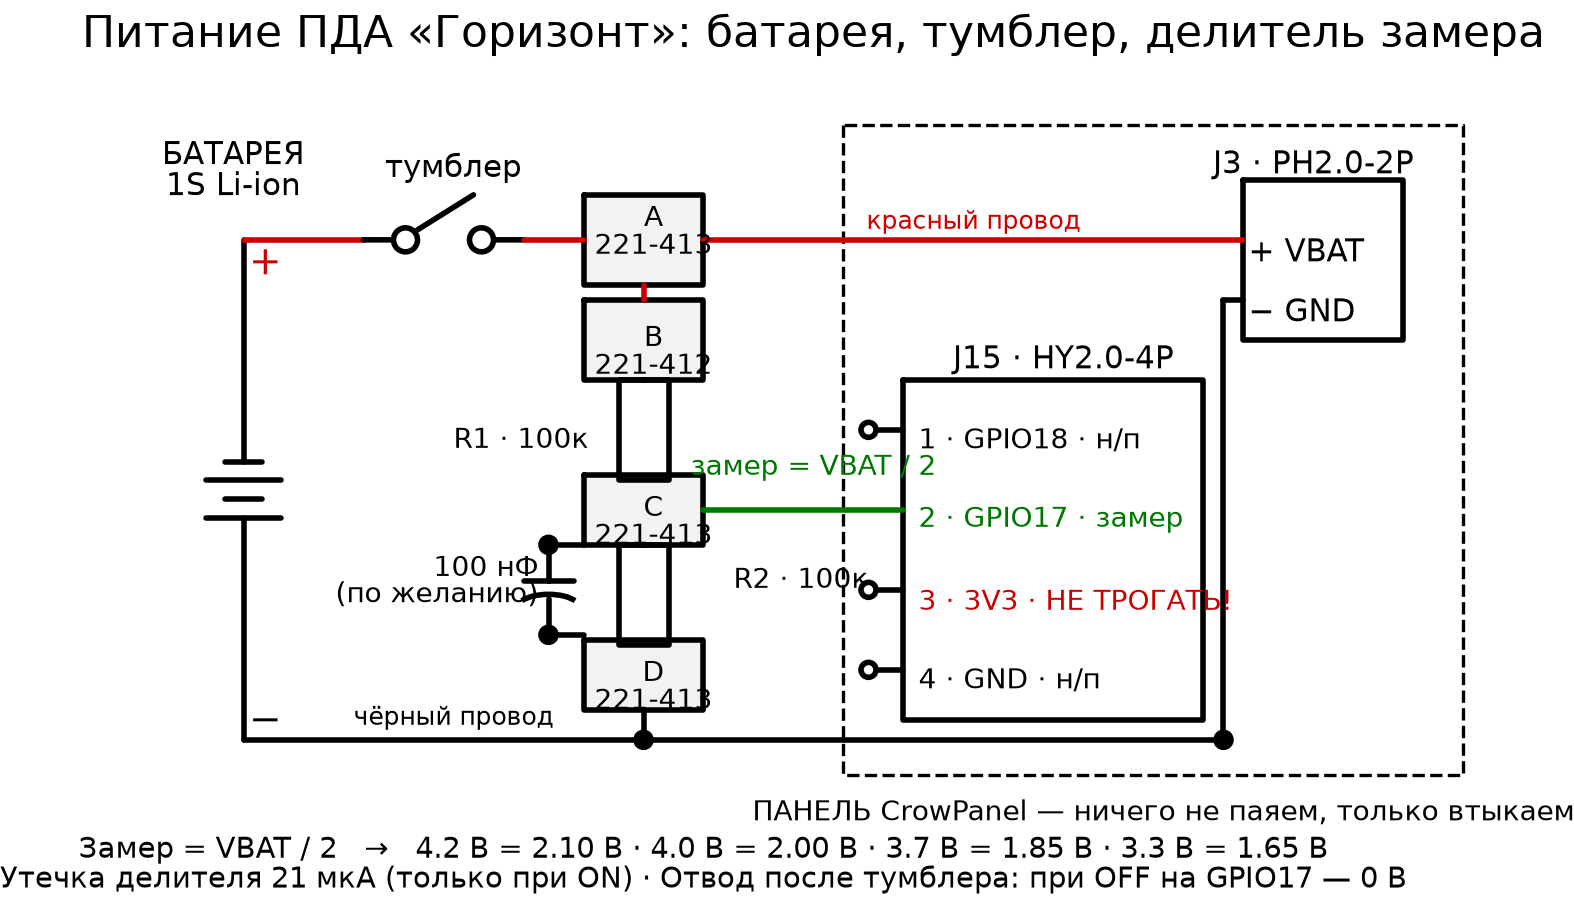
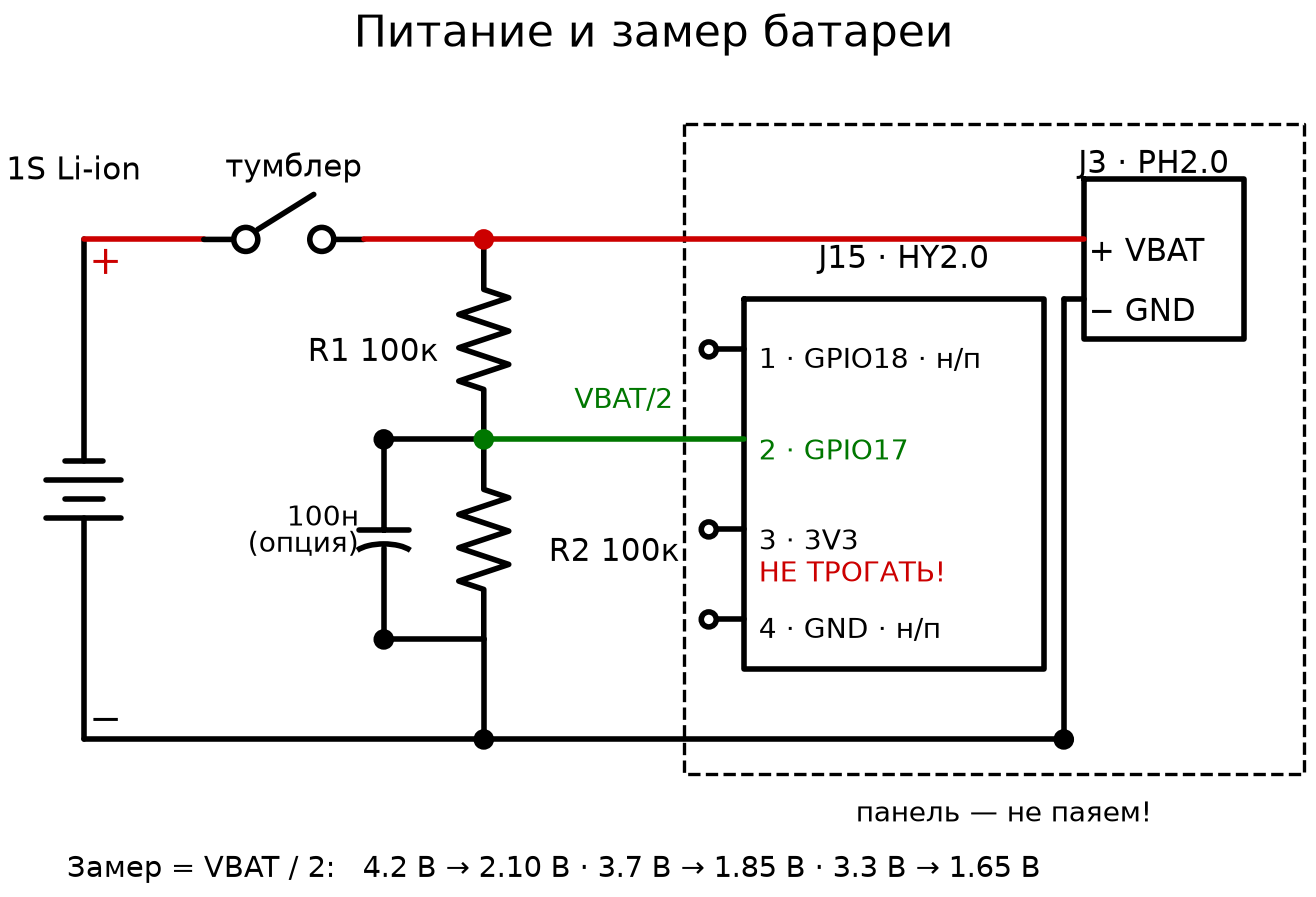
docs: solder-variant schematic (no Wago), GND star note

diff --git a/docs/power-divider.py b/docs/power-divider.py
@@ -1,11 +1,12 @@
 # -*- coding: utf-8 -*-
-"""Принципиальная схема: батарея + тумблер + делитель замера -> J15.
-Генератор картинки для docs/POWER_SUPPLY.md. Запуск: python3 docs/power-divider.py"""
+"""Питание + делитель замера батареи -> J15 (вариант с пайкой).
+Генератор картинки для docs/POWER_SUPPLY.md. Запуск: python3 docs/power-divider.py
+Нужны: pip install schemdraw matplotlib"""
+import os
 import schemdraw
 import schemdraw.elements as elm
 
 schemdraw.use('matplotlib')
-
 d = schemdraw.Drawing(fontsize=11)
 
 
@@ -15,104 +16,92 @@ def T(x, y, s, fs=11, **k):
     d.add(elm.Label().at((x, y)).label(s, fontsize=fs, **k))
 
 
-def W(a, b, c='black', w=None):
-    d.add(elm.Line().at(a).to(b).color(c) if w is None
-          else elm.Line().at(a).to(b).color(c).linewidth(w))
+def W(a, b, c='black'):
+    d.add(elm.Line().at(a).to(b).color(c))
 
 
-def box(x1, y1, x2, y2, fill='#F2F2F2', **k):
-    # x1<x2, y1<y2; углы Rect относительные -> ставим через .at()
-    # .right() обязателен: Rect наследует theta предыдущего элемента!
+def box(x1, y1, x2, y2, fill='white', **k):
+    # x1<x2, y1<y2; углы Rect относительные + .right() сбрасывает наследованный theta
     d.add(elm.Rect(corner1=(0, 0), corner2=(x2 - x1, y1 - y2),
                    fill=fill, **k).at((x1, y2)).right())
 
 
-RED, BLK, GRN = '#CC0000', 'black', '#007700'
+def dot(x, y, c='black'):
+    d.add(elm.Dot().at((x, y)).color(c))
+
+
+RED, GRN = '#CC0000', '#007700'
 
 # --- Заголовок ---
-T(5.6, 6.95, 'Питание ПДА «Горизонт»: батарея, тумблер, делитель замера', 16, ha='center')
+T(5.6, 6.95, 'Питание и замер батареи', 16, ha='center')
 
-# --- Батарея ---
+# --- Батарея и тумблер ---
 d.add(elm.Battery().at((0, 0)).to((0, 5)))
 T(0.32, 4.68, '+', 14, color=RED)
 T(0.32, 0.10, '−', 14)
-T(0, 5.62, 'БАТАРЕЯ\n1S Li-ion', 11, ha='center')
-
-# --- Тумблер ---
+T(0, 5.62, '1S Li-ion', 11, ha='center')
 W((0, 5), (1.2, 5), RED)
 d.add(elm.Switch().at((1.2, 5)).right().length(1.6))
-W((2.8, 5), (3.4, 5), RED)
+W((2.8, 5), (4.0, 5), RED)
 T(2.0, 5.62, 'тумблер', 11, ha='center')
 
-# --- Клемма A ---
-box(3.4, 4.55, 4.6, 5.45)
-T(4.0, 5.0, 'A\n221-413', 10, ha='center')
-W((4.6, 5), (10.0, 5), RED)          # красный к J3+
-W((4.0, 4.55), (4.0, 4.4), RED)      # вниз к B
-T(7.2, 5.28, 'красный провод', 9, ha='center', color=RED)
+# --- Паяная точка S1: красный + R1 + провод к J3 ---
+dot(4.0, 5.0, RED)
+W((4.0, 5), (10.0, 5), RED)
 
-# --- Клемма B ---
-box(3.4, 3.6, 4.6, 4.4)
-T(4.0, 4.0, 'B\n221-412', 10, ha='center')
+# --- Делитель (пайка) ---
+d.add(elm.Resistor().at((4.0, 5.0)).to((4.0, 3.0)))
+T(3.45, 4.0, 'R1 100к', 11, ha='right')
+dot(4.0, 3.0, GRN)  # S2: R1 + R2 + замер
+d.add(elm.Resistor().at((4.0, 3.0)).to((4.0, 1.0)))
+T(4.55, 2.0, 'R2 100к', 11, ha='left')
+W((4.0, 1.0), (4.0, 0))  # вывод R2 к чёрному проводу
+dot(4.0, 0)  # S3: R2 + чёрный провод
 
-# --- Делитель ---
-d.add(elm.ResistorIEC().at((4.0, 3.6)).to((4.0, 2.65)))
-T(3.35, 3.12, 'R1 · 100к', 10, ha='right')
-box(3.4, 1.95, 4.6, 2.65)
-T(4.0, 2.3, 'C\n221-413', 10, ha='center')
-d.add(elm.ResistorIEC().at((4.0, 1.95)).to((4.0, 1.05)))
-T(4.8, 1.72, 'R2 · 100к', 10, ha='left')
-box(3.4, 0.3, 4.6, 1.0)
-T(4.0, 0.65, 'D\n221-413', 10, ha='center')
-
-# --- Конденсатор 100н (опция, пунктир) ---
-W((3.4, 1.95), (3.05, 1.95), BLK)
-d.add(elm.Capacitor2().at((3.05, 1.95)).to((3.05, 1.05)))
-W((3.05, 1.05), (3.4, 1.05), BLK)
-d.add(elm.Dot().at((3.05, 1.95)))
-d.add(elm.Dot().at((3.05, 1.05)))
-T(2.85, 1.5, '100 нФ\n(по желанию)', 10, ha='right')
+# --- Конденсатор параллельно R2 ---
+W((4.0, 3.0), (3.0, 3.0))
+d.add(elm.Capacitor2().at((3.0, 3.0)).to((3.0, 1.0)))
+W((3.0, 1.0), (4.0, 1.0))
+dot(3.0, 3.0)
+dot(3.0, 1.0)
+T(2.65, 2.0, '100н\n(опция)', 10, ha='right')
 
 # --- Замер к J15 ---
-W((4.6, 2.3), (6.6, 2.3), GRN)
-T(5.6, 2.62, 'замер = VBAT / 2', 10, ha='center', color=GRN)
+W((4.0, 3.0), (6.6, 3.0), GRN)
+T(5.3, 3.3, 'VBAT/2', 10, ha='center', color=GRN)
 
-# --- Чёрный провод (земля) ---
-W((0, 0), (9.8, 0), BLK)
-W((4.0, 0.3), (4.0, 0), BLK)
-d.add(elm.Dot().at((4.0, 0)))
-d.add(elm.Dot().at((9.8, 0)))
-T(2.0, 0.32, 'чёрный провод', 9, ha='center')
+# --- Чёрный провод ---
+W((0, 0), (9.8, 0))
+dot(9.8, 0)
 
 # --- J15 ---
-box(6.6, 0.2, 9.6, 3.6, fill='white')
-T(8.1, 3.9, 'J15 · HY2.0-4P', 11, ha='center')
-for y in (3.1, 1.5, 0.7):
-    W((6.6, y), (6.25, y), BLK)
+box(6.6, 0.7, 9.6, 4.4)
+T(8.1, 4.7, 'J15 · HY2.0', 11, ha='center')
+for y in (3.9, 2.1, 1.2):
+    W((6.6, y), (6.25, y))
     d.add(elm.Dot(open=True).at((6.25, y)))
-T(6.85, 3.1, '1 · GPIO18 · н/п', 10, ha='left')
-T(6.85, 2.3, '2 · GPIO17 · замер', 10, ha='left', color=GRN)
-T(6.85, 1.5, '3 · 3V3 · НЕ ТРОГАТЬ!', 10, ha='left', color=RED)
-T(6.85, 0.7, '4 · GND · н/п', 10, ha='left')
+T(6.85, 3.9, '1 · GPIO18 · н/п', 10, ha='left')
+T(6.85, 3.0, '2 · GPIO17', 10, ha='left', color=GRN)
+T(6.85, 2.1, '3 · 3V3', 10, ha='left')
+T(6.85, 1.78, 'НЕ ТРОГАТЬ!', 10, ha='left', color=RED)
+T(6.85, 1.2, '4 · GND · н/п', 10, ha='left')
 
 # --- J3 ---
-box(10.0, 4.0, 11.6, 5.6, fill='white')
-T(10.8, 5.85, 'J3 · PH2.0-2P', 11, ha='center')
+box(10.0, 4.0, 11.6, 5.6)
+T(10.8, 5.85, 'J3 · PH2.0', 11, ha='center')
 T(10.15, 5.0, '+ VBAT', 11, ha='left')
 T(10.15, 4.4, '− GND', 11, ha='left')
-W((10.0, 4.4), (9.8, 4.4), BLK)
-W((9.8, 4.4), (9.8, 0), BLK)
+W((10.0, 4.4), (9.8, 4.4))
+W((9.8, 4.4), (9.8, 0))
 
 # --- Рамка панели ---
 box(6.0, -0.35, 12.2, 6.15, fill=None, ls='--', lw=1.2)
-T(9.1, -0.62, 'ПАНЕЛЬ CrowPanel — ничего не паяем, только втыкаем', 10, ha='center')
+T(9.1, -0.62, 'панель — не паяем!', 10, ha='center')
 
 # --- Подвал ---
-T(4.5, -1.15, 'Замер = VBAT / 2   →   4.2 В = 2.10 В · 4.0 В = 2.00 В · 3.7 В = 1.85 В · 3.3 В = 1.65 В\n'
-              'Утечка делителя 21 мкА (только при ON) · Отвод после тумблера: при OFF на GPIO17 — 0 В',
+T(4.6, -1.2, 'Замер = VBAT / 2:   4.2 В → 2.10 В · 3.7 В → 1.85 В · 3.3 В → 1.65 В',
   10.5, ha='center')
 
-import os
 OUT = os.path.join(os.path.dirname(os.path.abspath(__file__)), 'power-divider.png')
 d.save(OUT, transparent=False, dpi=200)
 print('saved', OUT)

diff --git a/docs/POWER_SUPPLY.md b/docs/POWER_SUPPLY.md
@@ -55,6 +55,9 @@
   ток делителя 21 мкА уходит в землю через R2.
 - Земля делителя берётся с чёрного провода батареи (это та же GND,
   что на J3) — так на панель идёт всего один провод.
+  Pin 4 J15 — та же самая земля (общая GND платы, проверено по схеме),
+  но вести туда второй провод не надо: низ делителя правильнее сажать
+  прямо на минус батареи (звездой, без тока делителя через тонкий кабель).
 - GND перед подключением проверить прозвонкой на корпус USB-C.
 
 ## Сборка делителя по шагам (панель не паяем)
@@ -70,6 +73,12 @@
 и 221-413 ×3 (один 413-й ставится на красный провод вместо клеммы
 тумблера, второй — на разрезанный чёрный провод), мультиметр,
 изолента/термоусадка.
+
+**Вариант с пайкой** (вместо Wago): всего три паяных соединения —
+красный провод + вывод R1; R1 + R2 + провод «замер»; R2 + чёрный провод
+(чёрный режется, как и в варианте с клеммами). Конденсатор 100 нФ, если
+ставите, паяется прямо на выводы R2. Каждое соединение — в свою
+термоусадку до пайки следующего.
 
 1. Воткнуть белый разъём кабеля в J15 на панели (входит только одной
    стороной, до щелчка защёлки).
